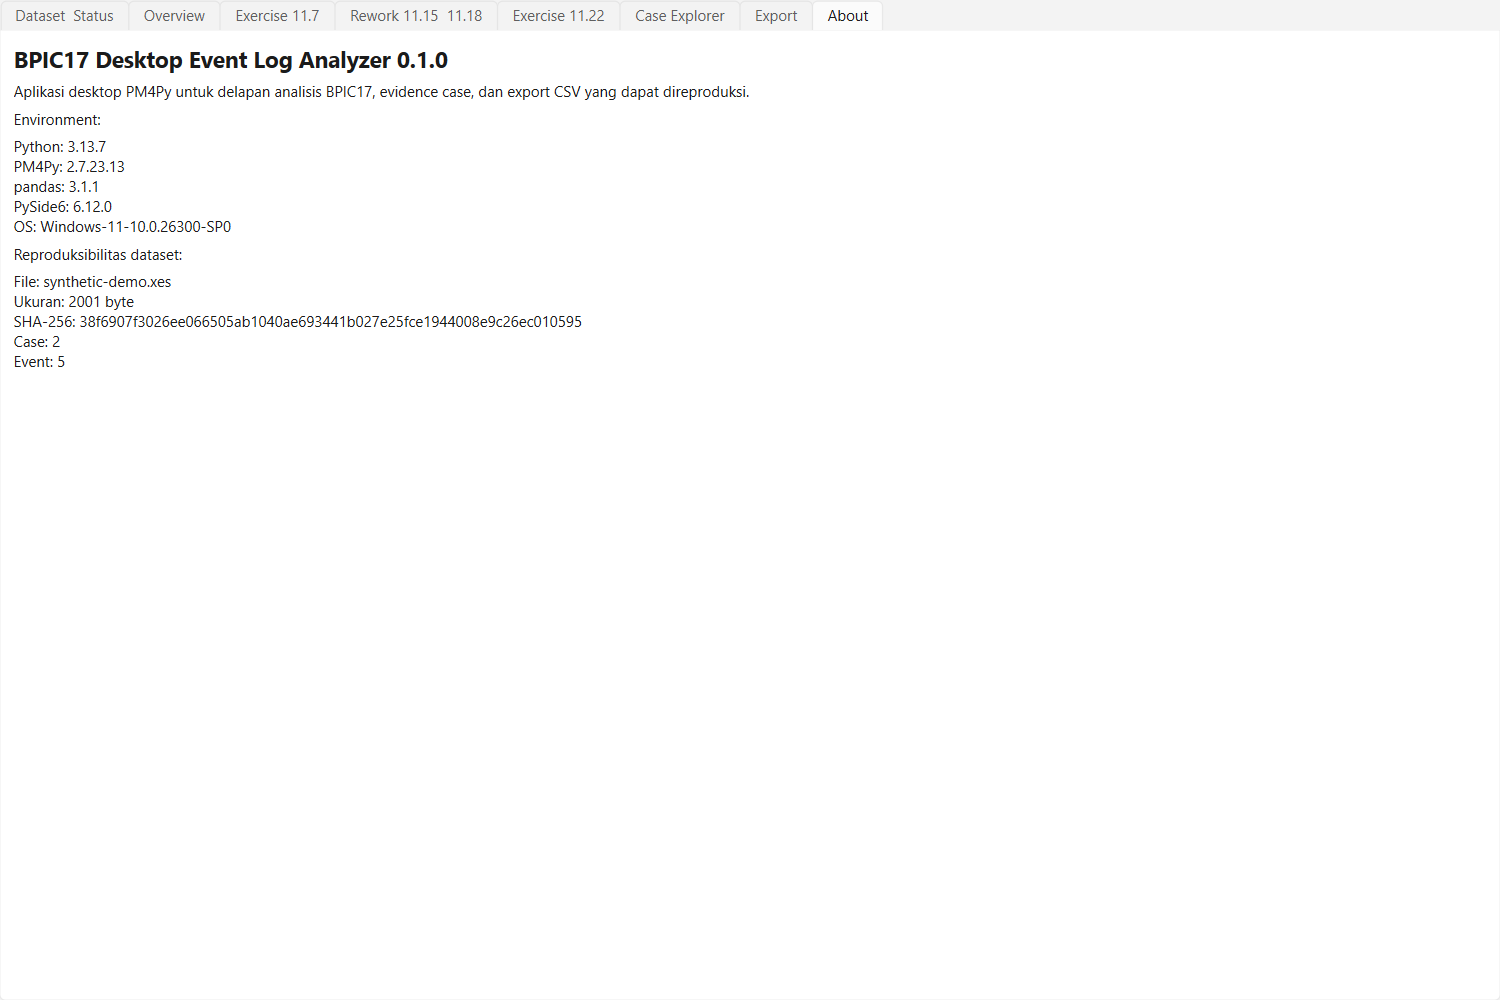
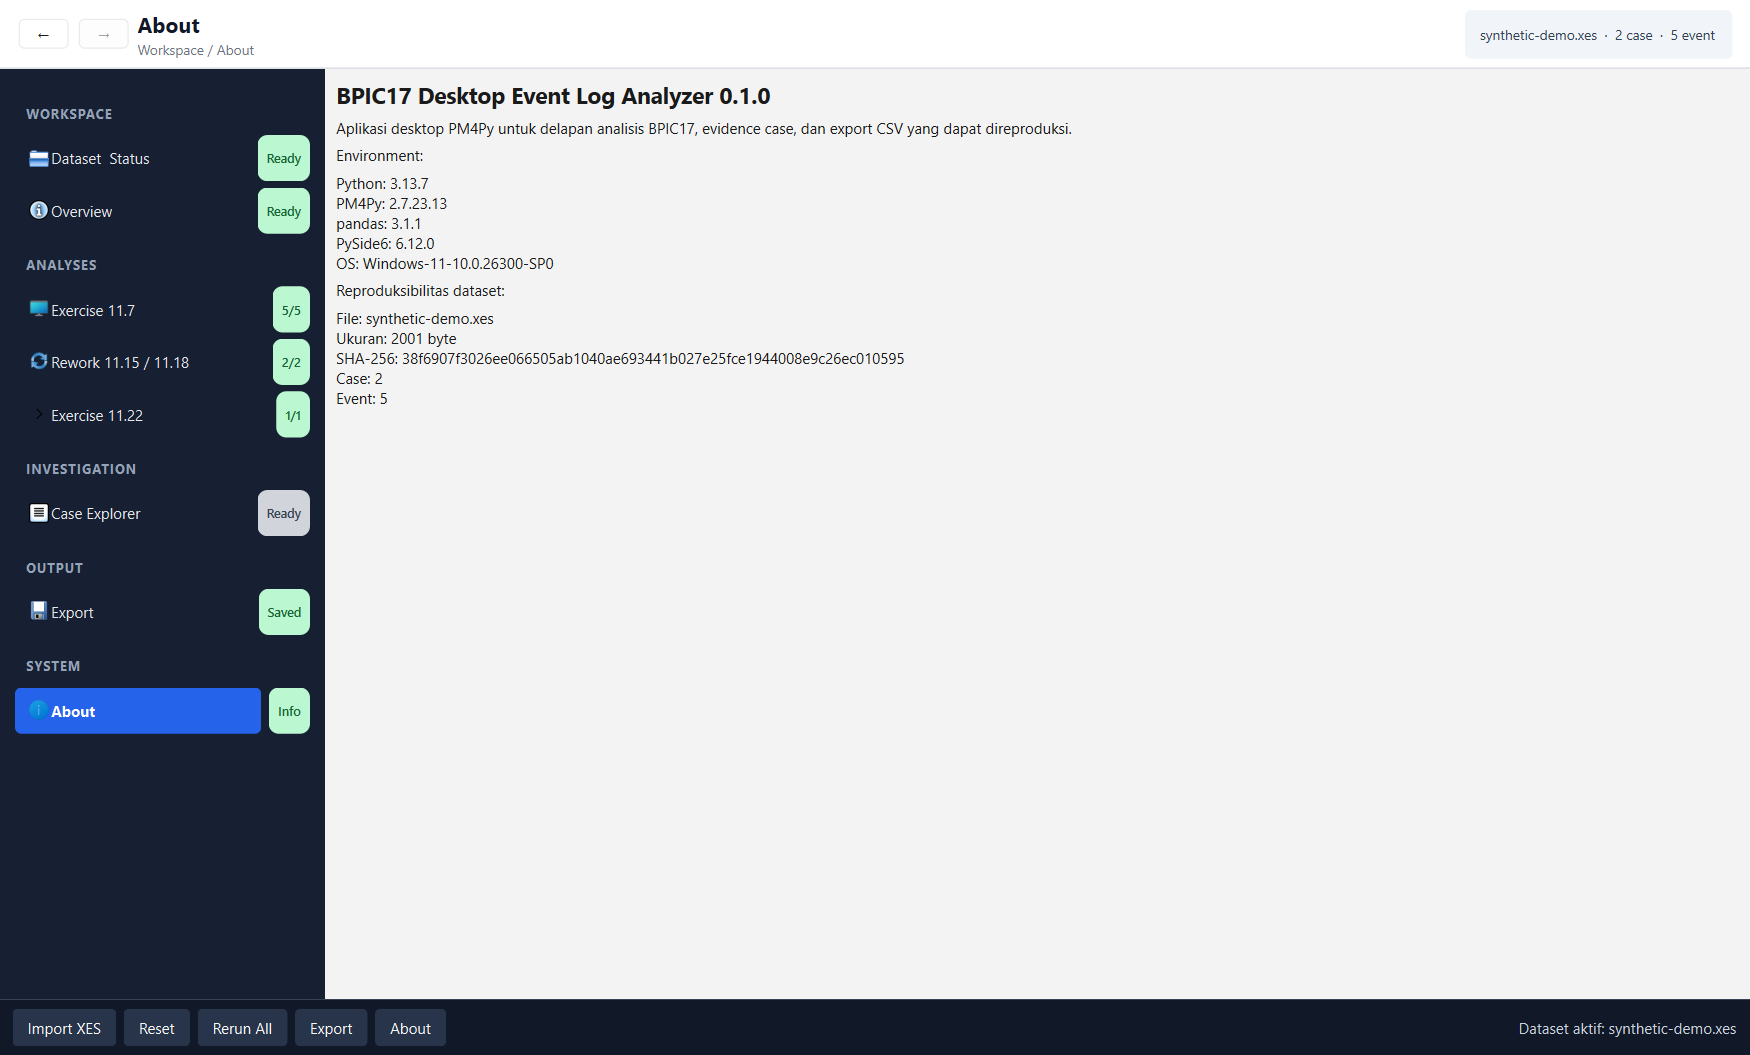
docs: document workspace navigation and QA

diff --git a/USERFLOW.md b/USERFLOW.md
@@ -20,7 +20,7 @@ Jalankan aplikasi dari root repository:
 python manage.py run
 ```
 
-Saat aplikasi dibuka, delapan tab tersedia:
+Saat aplikasi dibuka, delapan workspace tersedia melalui sidebar permanen:
 
 1. Dataset & Status
 2. Overview
@@ -31,7 +31,7 @@ Saat aplikasi dibuka, delapan tab tersedia:
 7. Export
 8. About
 
-Belum ada dataset atau hasil analisis aktif pada state awal.
+Header selalu menampilkan workspace aktif, breadcrumb, tombol Back/Forward, dan context dataset. Action bar bawah menyediakan Import, Reset, Rerun All, Export, dan About dari halaman mana pun. Belum ada dataset atau hasil analisis aktif pada state awal.
 
 ## 3. User flow utama
 
@@ -40,8 +40,8 @@ flowchart TD
     Start([Jalankan: python manage.py run]) --> NavDataset
     Start -. dapat dibuka tanpa dataset .-> NavAbout
 
-    subgraph DatasetArea["Tab: Dataset & Status"]
-        NavDataset["Navigasi: klik Dataset & Status"] --> Select["Kontrol: Pilih file XES"]
+    subgraph DatasetArea["Sidebar / WORKSPACE: Dataset & Status"]
+        NavDataset["Navigasi: pilih Dataset & Status"] --> Select["Kontrol: Pilih file XES"]
         Select --> Invalidate["Sistem: hapus dataset dan hasil lama"]
         Invalidate --> Loading["Sistem: import dan validasi di worker"]
         Loading --> Valid{"Import berhasil?"}
@@ -52,24 +52,24 @@ flowchart TD
         Store --> Metadata["Panel: file, case, event, warning, SHA-256"]
     end
 
-    subgraph OverviewArea["Tab: Overview"]
+    subgraph OverviewArea["Sidebar / WORKSPACE: Overview"]
         Store --> OverviewAuto["Sistem: hitung Overview otomatis"]
-        OverviewAuto --> NavOverview["Navigasi: klik Overview"]
+        OverviewAuto --> NavOverview["Navigasi: pilih Overview"]
         NavOverview --> InspectOverview["Aksi: periksa KPI, aktivitas, dan durasi case"]
         InspectOverview --> OverviewCase["Kontrol: pilih case lalu Buka di Case Explorer"]
     end
 
-    subgraph Exercise117Area["Tab: Exercise 11.7"]
-        Store --> Nav117["Navigasi: klik Exercise 11.7"]
+    subgraph Exercise117Area["Sidebar / ANALYSES: Exercise 11.7"]
+        Store --> Nav117["Navigasi: pilih Exercise 11.7"]
         Nav117 --> Run117["Kontrol: Jalankan 11.7 A-E"]
         Run117 --> View117["Panel: pilih hasil, cari case, periksa rule"]
         View117 --> Open117["Kontrol: Buka kasus"]
     end
 
-    subgraph ReworkArea["Tab: Rework 11.15 & 11.18"]
+    subgraph ReworkArea["Sidebar / ANALYSES: Rework 11.15 & 11.18"]
         Store --> ReworkDecision{"Target fraud tepat satu?"}
         ReworkDecision -- Ya --> ReworkAuto["Sistem: jalankan 11.15 dan 11.18 otomatis"]
-        ReworkDecision -- Tidak --> NavRework["Navigasi: klik Rework 11.15 & 11.18"]
+        ReworkDecision -- Tidak --> NavRework["Navigasi: pilih Rework 11.15 & 11.18"]
         NavRework --> ReworkManual["Kontrol: pilih/ketik aktivitas target dan lifecycle"]
         ReworkManual --> RunRework["Kontrol: Jalankan / jalankan ulang"]
         ReworkAuto --> ViewRework["Panel: pilih case dan evidence"]
@@ -77,14 +77,14 @@ flowchart TD
         ViewRework --> OpenRework["Kontrol: Buka di Case Explorer"]
     end
 
-    subgraph Exercise1122Area["Tab: Exercise 11.22"]
-        Store --> Nav1122["Navigasi: klik Exercise 11.22"]
+    subgraph Exercise1122Area["Sidebar / ANALYSES: Exercise 11.22"]
+        Store --> Nav1122["Navigasi: pilih Exercise 11.22"]
         Nav1122 --> Run1122["Kontrol: Jalankan 11.22"]
         Run1122 --> View1122["Panel: cari dan pilih pasangan cancel-accept"]
         View1122 --> Open1122["Kontrol: Buka di Case Explorer"]
     end
 
-    subgraph ExplorerArea["Tab: Case Explorer"]
+    subgraph ExplorerArea["Sidebar / INVESTIGATION: Case Explorer"]
         OverviewCase --> NavExplorer["Navigasi otomatis: pindah ke Case Explorer"]
         Open117 --> NavExplorer
         OpenRework --> NavExplorer
@@ -93,7 +93,7 @@ flowchart TD
         DirectExplorer --> SearchCase["Kontrol: cari/pilih case ID"]
         SearchCase --> Trace["Panel: trace lengkap menurut _trace_pos"]
         NavExplorer --> Trace
-        Trace --> BackAnalysis["Navigasi: klik tab exercise untuk kembali"]
+        Trace --> BackAnalysis["Navigasi: Back atau pilih analysis di sidebar"]
     end
 
     Run117 --> Results["Sistem: agregasi AnalysisResult"]
@@ -101,8 +101,8 @@ flowchart TD
     RunRework --> Results
     Run1122 --> Results
 
-    subgraph ExportArea["Tab: Export"]
-        Results --> NavExport["Navigasi: klik Export"]
+    subgraph ExportArea["Sidebar / OUTPUT: Export"]
+        Results --> NavExport["Navigasi: pilih Export atau action bar Export"]
         NavExport --> Complete{"Delapan result tersedia?"}
         Complete -- Tidak --> Missing["Panel: Export CSV dinonaktifkan"]
         Missing --> BackAnalysis
@@ -122,14 +122,14 @@ flowchart TD
         RerunAction --> Run1122
     end
 
-    subgraph AboutArea["Tab: About"]
-        Store --> NavAbout["Navigasi: klik About"]
+    subgraph AboutArea["Sidebar / SYSTEM: About"]
+        Store --> NavAbout["Navigasi: pilih About atau action bar About"]
         NavAbout --> AboutInfo["Panel: versi aplikasi, dependency, OS, dan metadata dataset"]
     end
 
-    BackAnalysis -. pilih tab .-> Nav117
-    BackAnalysis -. pilih tab .-> NavRework
-    BackAnalysis -. pilih tab .-> Nav1122
+    BackAnalysis -. pilih sidebar .-> Nav117
+    BackAnalysis -. pilih sidebar .-> NavRework
+    BackAnalysis -. pilih sidebar .-> Nav1122
 
     classDef navigation fill:#dbeafe,stroke:#2563eb,color:#1e3a8a
     classDef action fill:#fef3c7,stroke:#d97706,color:#78350f
@@ -150,22 +150,32 @@ flowchart TD
 
 | Tujuan pengguna | Navigasi | Kontrol atau aksi |
 |---|---|---|
-| Memilih atau mengganti XES | Tab `Dataset & Status` | `Pilih file XES` |
-| Memeriksa KPI dan daftar case | Tab `Overview` | Cari/pilih case, lalu `Buka di Case Explorer` |
-| Menjalankan 11.7 A–E | Tab `Exercise 11.7` | `Jalankan 11.7 A-E`, pilih hasil, lalu `Buka kasus` |
-| Menjalankan 11.15/11.18 | Tab `Rework 11.15 & 11.18` | Pilih aktivitas/lifecycle, lalu `Jalankan / jalankan ulang` |
-| Menjalankan 11.22 | Tab `Exercise 11.22` | `Jalankan 11.22`, pilih pasangan, lalu `Buka di Case Explorer` |
-| Menelusuri trace secara langsung | Tab `Case Explorer` | Ketik atau pilih case ID |
-| Mengekspor hasil | Tab `Export` | `Pilih direktori`, lalu `Export CSV` |
-| Menghapus hasil tanpa membuang dataset | Tab `Export` | `Reset hasil analisis` |
-| Menghitung ulang tanpa parse XES | Tab `Export` | `Jalankan ulang semua` |
-| Melihat versi dan metadata | Tab `About` | Baca informasi environment dan dataset aktif |
+| Memilih atau mengganti XES | Sidebar `Dataset & Status` atau action bar `Import XES` | `Pilih file XES` |
+| Memeriksa KPI dan daftar case | Sidebar `Overview` | Cari/pilih case, lalu `Buka di Case Explorer` |
+| Menjalankan 11.7 A–E | Sidebar `Exercise 11.7` | `Jalankan 11.7 A-E`, pilih hasil, lalu `Buka kasus` |
+| Menjalankan 11.15/11.18 | Sidebar `Rework 11.15 & 11.18` | Pilih aktivitas/lifecycle, lalu `Jalankan / jalankan ulang` |
+| Menjalankan 11.22 | Sidebar `Exercise 11.22` | `Jalankan 11.22`, pilih pasangan, lalu `Buka di Case Explorer` |
+| Menelusuri trace secara langsung | Sidebar `Case Explorer` | Ketik atau pilih case ID |
+| Mengekspor hasil | Sidebar atau action bar `Export` | `Pilih direktori`, lalu `Export CSV` |
+| Menghapus hasil tanpa membuang dataset | Action bar `Reset` atau halaman Export | `Reset hasil analisis` |
+| Menghitung ulang tanpa parse XES | Action bar `Rerun All` atau halaman Export | `Jalankan ulang semua` |
+| Melihat versi dan metadata | Sidebar atau action bar `About` | Baca informasi environment dan dataset aktif |
+
+### Shortcut navigasi
+
+| Shortcut | Workspace/aksi |
+|---|---|
+| `Ctrl+O` | Import XES |
+| `Ctrl+1` … `Ctrl+8` | Dataset, Overview, 11.7, Rework, 11.22, Explorer, Export, About |
+| `Alt+Left` / `Alt+Right` | Back / Forward pada navigation history |
+| `Ctrl+R` | Rerun seluruh analisis dari EventStore aktif |
+| `F1` | About |
 
 ## 4. Import dataset
 
 ### 4.1. Jalur sukses
 
-1. Pengguna membuka tab `Dataset & Status`.
+1. Pengguna memilih `Dataset & Status` pada sidebar atau `Import XES` pada action bar.
 2. Pengguna menekan `Pilih file XES`.
 3. Dialog hanya menawarkan XES, XES.GZ, atau semua file.
 4. Setelah file dipilih, aplikasi segera:
@@ -217,7 +227,7 @@ Pengguna dapat mencari case dan membukanya di Case Explorer. Pembukaan dari Over
 
 ## 6. Exercise 11.7 A–E
 
-1. Pengguna membuka tab `Exercise 11.7`.
+1. Pengguna memilih `Exercise 11.7` pada sidebar atau menekan `Ctrl+3`.
 2. Pengguna menekan `Jalankan 11.7 A-E`.
 3. Lima hasil dihitung dari `EventStore` aktif di worker thread.
 4. Tabel menampilkan exercise, deskripsi, count, mean days, dan denominator.
@@ -260,7 +270,7 @@ Pengguna dapat memilih case dan membuka seluruh evidence terkait di Case Explore
 
 ## 8. Exercise 11.22
 
-1. Pengguna membuka tab `Exercise 11.22`.
+1. Pengguna memilih `Exercise 11.22` pada sidebar atau menekan `Ctrl+5`.
 2. Pengguna menekan `Jalankan 11.22`.
 3. Aplikasi mencari case yang memiliki `O_Cancelled` di posisi `i` dan `O_Accepted` di posisi `j`, dengan `i < j`.
 4. Panel menampilkan count, denominator, percentage, rule, notes, dan satu pasangan evidence per case.
@@ -383,7 +393,7 @@ Worker tidak memodifikasi widget secara langsung. Result/error diteruskan ke GUI
 
 | Aksi/kondisi | Respons sistem | State akhir | Recovery pengguna |
 |---|---|---|---|
-| Membuka aplikasi | Menampilkan delapan tab | Tidak ada dataset | Pilih XES |
+| Membuka aplikasi | Menampilkan sidebar, header, workspace, dan action bar | Tidak ada dataset | Pilih XES |
 | Memilih XES valid | Validasi di worker, membuat EventStore | Dataset aktif | Jalankan analisis |
 | Memilih XES rusak/hilang | Menampilkan alasan, membersihkan state lama | Tidak ada dataset | Pilih file lain |
 | Aktivitas fraud tunggal | Menjalankan 11.15/11.18 otomatis | Dua hasil rework tersedia | Tinjau atau rerun |

diff --git a/docs/qa_a5.md b/docs/qa_a5.md
@@ -18,9 +18,10 @@
 |---|---|---|
 | Export core | `python -m pytest tests/test_export.py -q` | 5 passed |
 | Export GUI + smoke | export panel, application smoke | 13 passed |
+| Workspace navigation | sidebar, history, shortcuts, badges, action bar | 7 passed |
 | Integration | import → 8 hasil → evidence → CSV → reset/rerun | 2 passed, 1 warning |
-| Regression | `python manage.py test -q` | 136 passed, 1 warning; 7,39 detik |
-| Clean install | venv Python 3.13 baru + `pip install -r requirements.txt` + full suite | 136 passed, 1 warning; 12,70 detik |
+| Regression terkini | `python manage.py test -q` | 143 passed, 1 warning; dua run final berturut-turut 6,63 dan 6,91 detik |
+| Clean install baseline A5 | venv Python 3.13 baru + `pip install -r requirements.txt` + full suite sebelum navigation shell | 136 passed, 1 warning; 12,70 detik |
 
 Warning tunggal berasal dari PM4Py karena `r4pm` tidak dipasang. Pesan PM4Py menyatakan `rustxes` tetap didukung sebagai fallback; import XES pada test berhasil.
 
@@ -34,6 +35,9 @@ Warning tunggal berasal dari PM4Py karena `r4pm` tidak dipasang. Pesan PM4Py men
 - Status `unavailable` mengekspor reason dan denominator tanpa menampilkan count placeholder sebagai jawaban valid.
 - Direktori dengan spasi, cancel dialog, path bukan direktori, dan error permission sintetis ditangani.
 - Tiga CSV dibaca kembali dengan pandas dan evidence identifier tetap tersedia.
+- Delapan workspace dapat diakses dari sidebar dan shortcut `Ctrl+1`–`Ctrl+8`.
+- Navigation history, breadcrumb, dataset context, status badge, dan global action bar diuji.
+- Lock `tqdm` yang dipakai PM4Py diinisialisasi pada GUI thread agar import sinkronisasi tidak pertama kali terjadi di QThread pada Windows/Python 3.13.
 
 ## Batas verifikasi dan handoff
 

diff --git a/docs/pembagian_kontribusi.md b/docs/pembagian_kontribusi.md
@@ -8,5 +8,5 @@ Isi berdasarkan pekerjaan aktual, commit, test, screenshot, bagian laporan, dan 
 | A2 | Cycle time, Exercise 11.7 A–E, panel dan evidence case | Core 11.7 dan GUI panel | Bagian laporan/screenshot hasil asli masih pending | Reviewer silang/demo final pending | `a8db794`–`9c0439f`, PR #1, perbaikan `2ef782a` |
 | A3 | Exercise 11.15/11.18, lifecycle/resource evidence, panel | Core rework dan GUI panel | Bagian laporan/screenshot hasil asli masih pending | Reviewer silang/demo final pending | `31b34e0`, PR #2, perbaikan `e69ec1d`/`7a92c5b` |
 | A4 | Exercise 11.22, eventually-follows evidence, Case Explorer | Ordering, sequence panel, explorer | Bagian laporan/screenshot hasil asli masih pending | Reviewer silang/demo final pending | `97c8746`, PR #5, perbaikan integrasi `28a82b4` |
-| A5 | Shell terintegrasi, shared status, Export/About, reset/rerun, packaging | Export, GUI, integration, stale state, clean-install | README, laporan §7–§10, `qa_a5.md`, screenshot Export/About sintetis | Review tim dan demo final masih pending | Perubahan A5 masih pada working tree; commit disiapkan setelah review |
+| A5 | Shell terintegrasi, persistent navigation, shared status, Export/About, reset/rerun, packaging | Export, navigation, GUI, integration, stale state, clean-install | README, user flow, laporan §7–§10, `qa_a5.md`, screenshot shell/Export/About sintetis | Review tim dan demo final masih pending | Perubahan A5 masih pada working tree; commit disiapkan setelah review |
 

diff --git a/docs/laporan.md b/docs/laporan.md
@@ -43,7 +43,7 @@ Reset menghapus hasil turunan dan Case Explorer tanpa menghapus `EventStore`. Re
 
 ## 8. Pengujian
 
-Pada 21 November 2026, seluruh suite berjalan dengan hasil `136 passed, 1 warning`. Integration test memverifikasi import XES sintetis, Overview, delapan hasil, evidence Case Explorer, tiga CSV, reset, rerun tanpa parse ulang, invalid dataset reset, dan penolakan callback dataset lama. Clean-install pada virtual environment Python 3.13 baru juga menghasilkan `136 passed, 1 warning` dalam 12,70 detik.
+Pada 21 November 2026, seluruh suite terkini berjalan dengan hasil `143 passed, 1 warning`. Integration test memverifikasi import XES sintetis, Overview, delapan hasil, evidence Case Explorer, tiga CSV, reset, rerun tanpa parse ulang, invalid dataset reset, dan penolakan callback dataset lama. Navigation test memverifikasi delapan workspace, history, shortcut, status badge, breadcrumb, dan global action bar. Clean-install baseline A5 sebelum navigation shell pada virtual environment Python 3.13 baru menghasilkan `136 passed, 1 warning` dalam 12,70 detik.
 
 Warning berasal dari dependency opsional PM4Py `r4pm`; fallback `rustxes` tetap dapat membaca XES. Detail perintah dan batas verifikasi dicatat dalam `docs/qa_a5.md`. Pengujian terhadap BPIC17 asli belum dilakukan karena file tidak tersedia di repository.
 

diff --git a/README.md b/README.md
@@ -48,6 +48,14 @@ Alternatif:
 python -m src.main
 ```
 
+Navigasi aplikasi menggunakan workspace shell bergaya process-analysis tool:
+
+- Sidebar kiri mengelompokkan Workspace, Analyses, Investigation, Output, dan System.
+- Header menampilkan halaman aktif, breadcrumb, Back/Forward, serta dataset context.
+- Badge sidebar menunjukkan loading, kesiapan dataset, jumlah hasil, case aktif, dan status export.
+- Action bar bawah menyediakan Import XES, Reset, Rerun All, Export, dan About dari halaman mana pun.
+- Gunakan `Ctrl+1` sampai `Ctrl+8` untuk berpindah halaman, `Ctrl+O` untuk import, `Ctrl+R` untuk rerun, `Alt+Left/Right` untuk history, dan `F1` untuk About.
+
 Alur penggunaan:
 
 1. Buka `Dataset & Status`, pilih file `.xes` atau `.xes.gz`, lalu tunggu validasi selesai.
